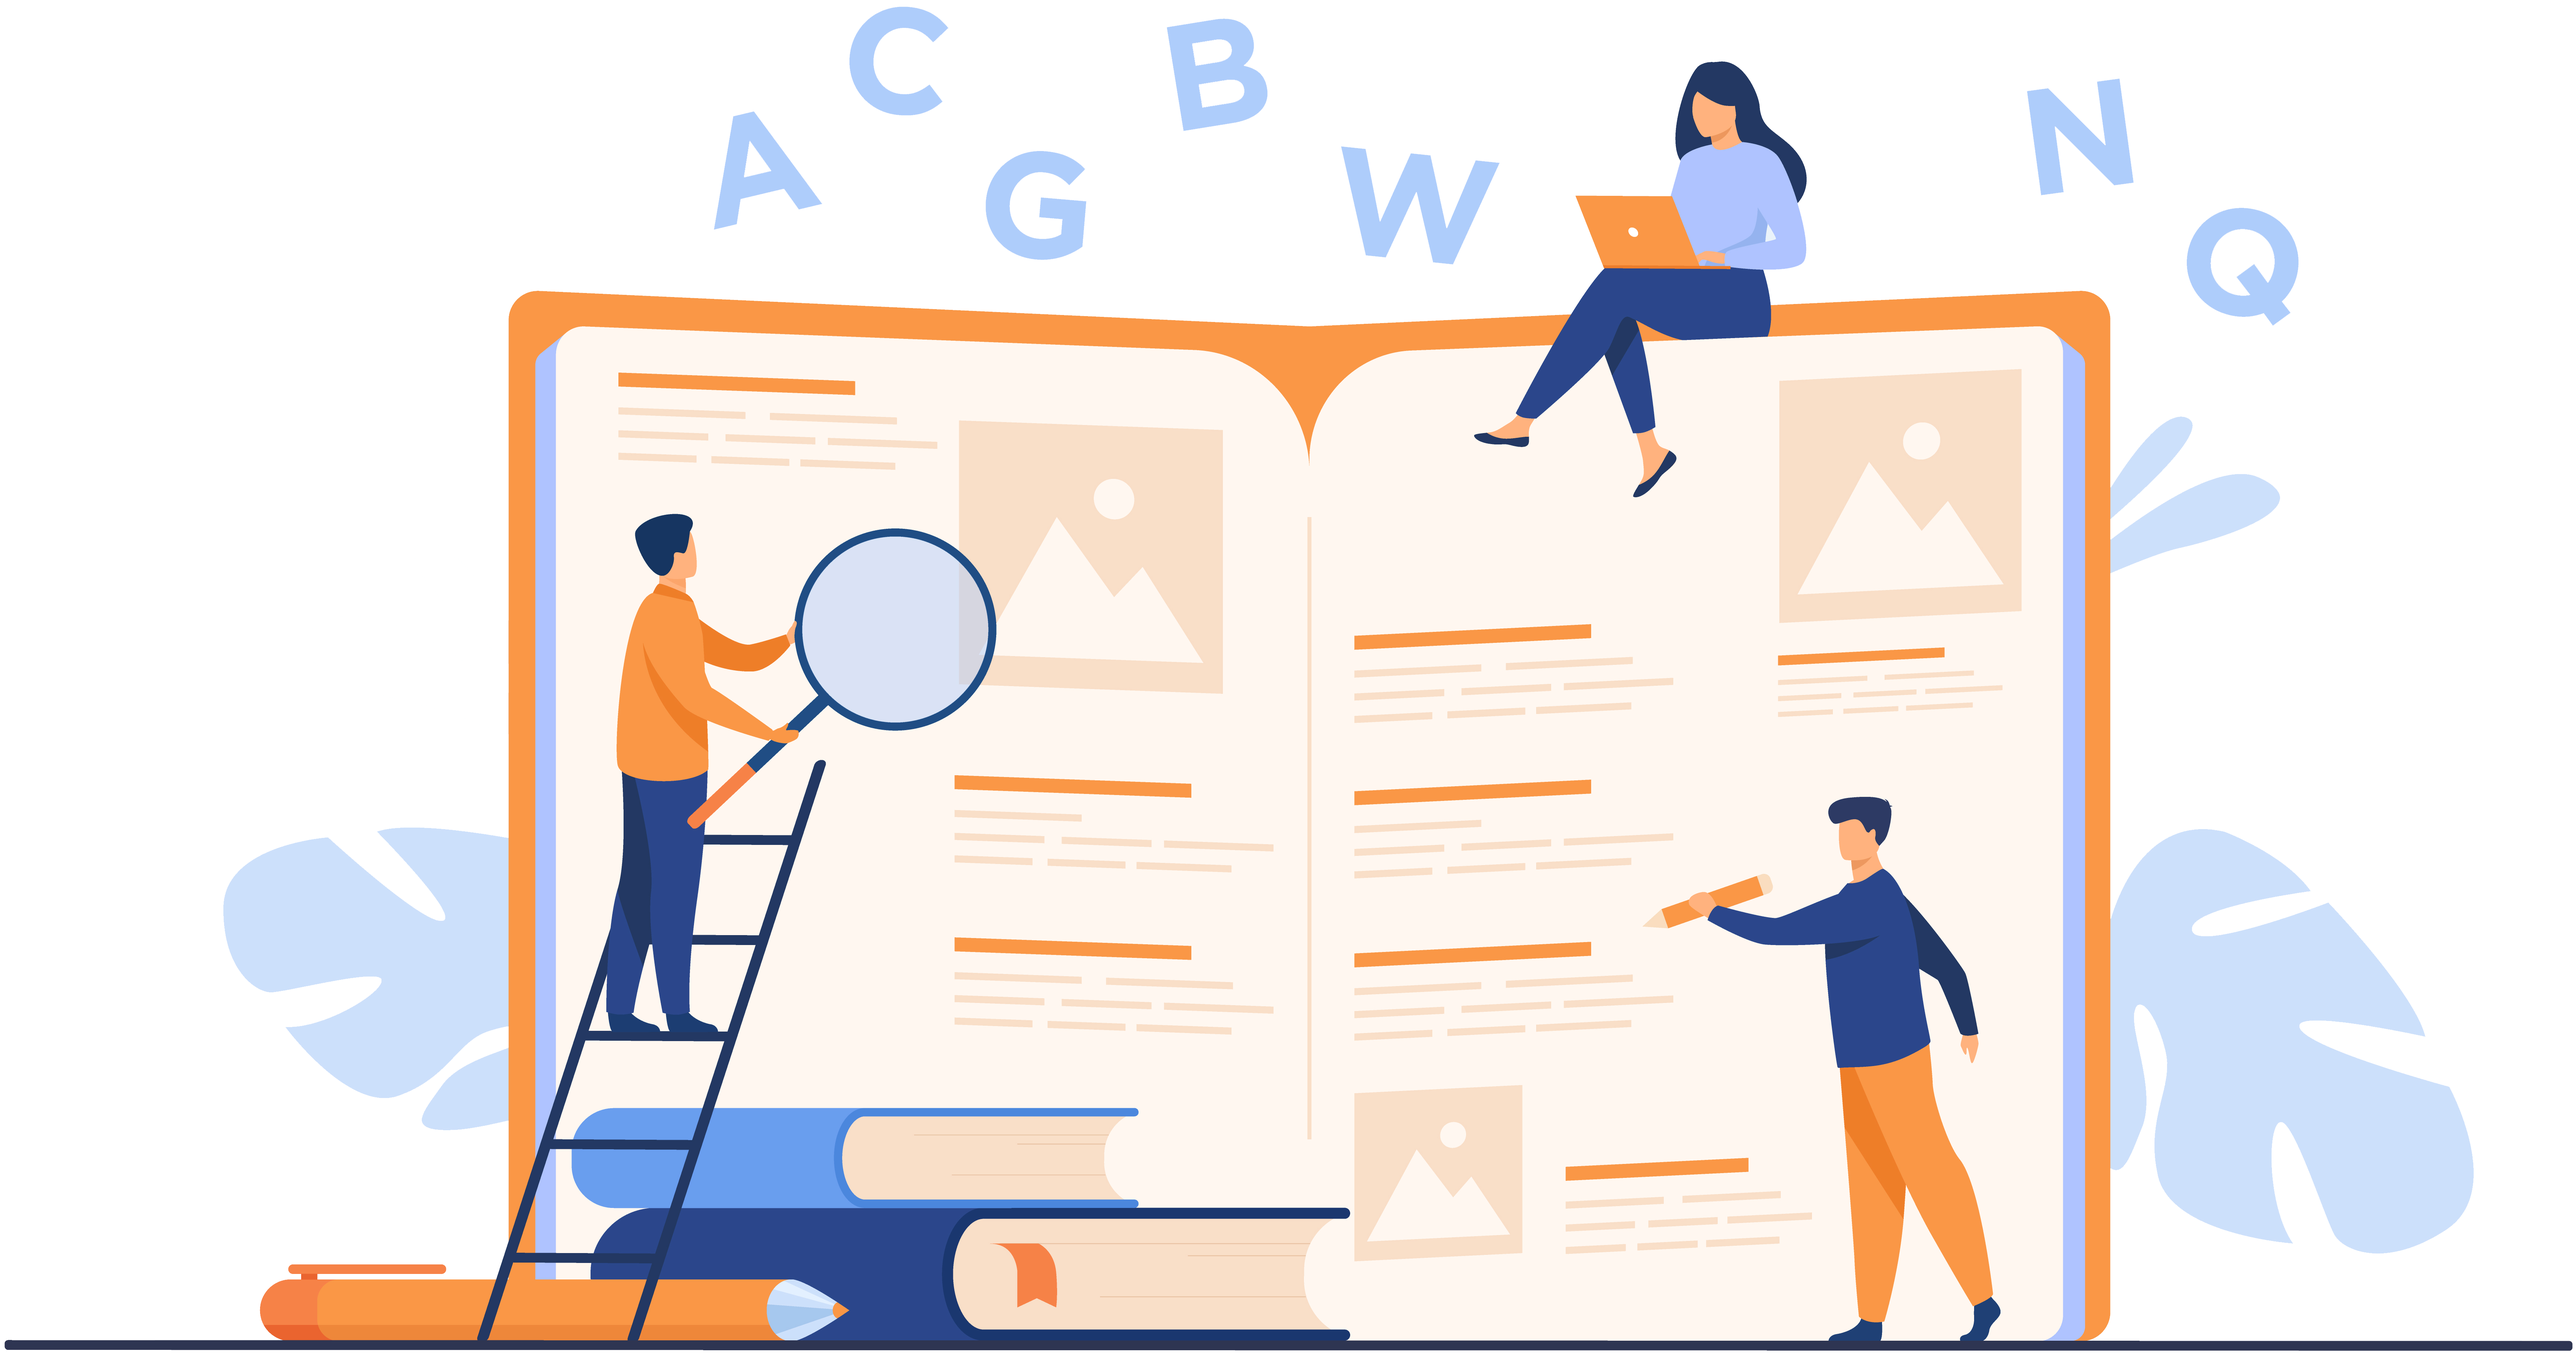
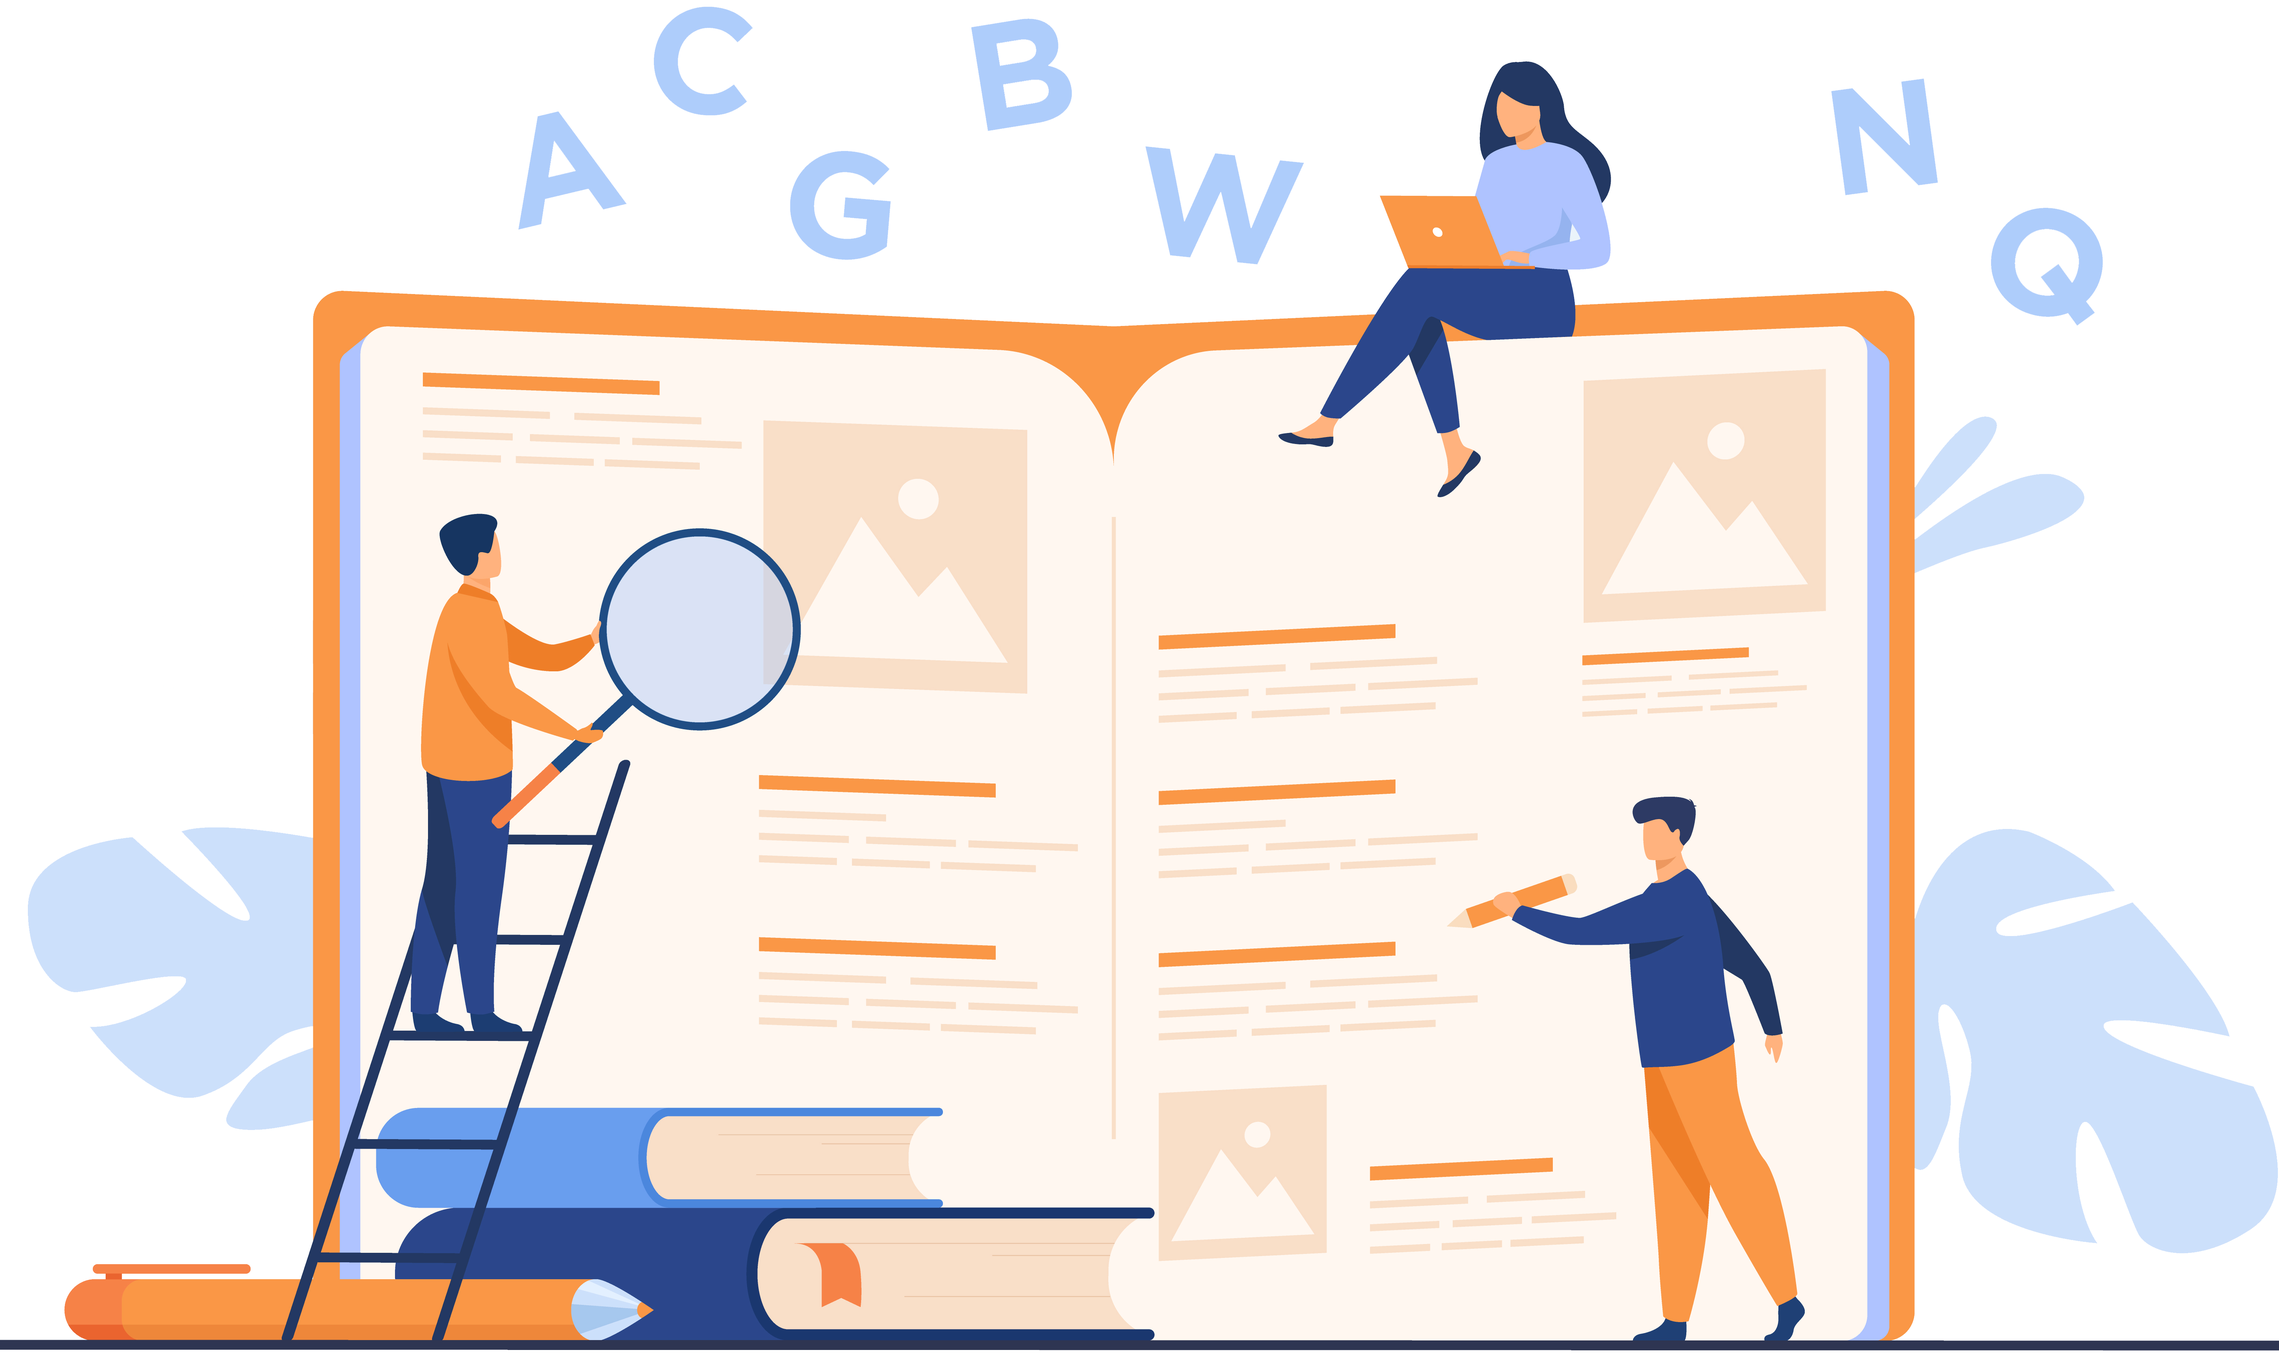
Add files via upload

Changed region(s): [[0.0, 0.0623, 1.0, 1.0], [0.2185, 0.0, 0.4995, 0.1868]]

diff --git a/education/style/style.css b/education/style/style.css
@@ -59,7 +59,7 @@ header{
 }
 
 #selected{
-    *background:#93b6da;
+    *background:#3f86f0;
     background-color: rgb(255, 127, 36);
     padding: 10px 40px;
     border-radius:50px;
@@ -72,8 +72,8 @@ header{
     width: 100%;
     height: 800px;
     background-image: url(../img/Background-page.svg);
-    
-    background-position: right;
+    position: relative;
+    background-position:right;
     background-repeat: no-repeat;
     
 }
@@ -123,7 +123,7 @@ header{
 }
 
 .container__cover .images img{
-    width: 800px;
+    width: 700px;
     animation: move-vector 4s linear infinite;
     margin-bottom: 20px;
 }
@@ -173,6 +173,7 @@ header{
         font-weight: 600;
         max-width: 280px;
         
+        
     }
     .container__cover .text h1 span{
         color:rgb(255, 137, 52);
@@ -181,14 +182,22 @@ header{
         max-width: 100%;
         font-weight: 900;
         
+        
+        
     }
     .container__cover .text p{
         margin-top:23px;
     }
     .container__cover{
         background-image: none;
-        background-color: #7676fa;
+        background-color: #3f86f0;
         color: white;
         height: 100vh;
     }
+}
+@media screen and (max-width:1670px) {
+    .container__cover{
+        background-position: center;
+    }
+    
 }
